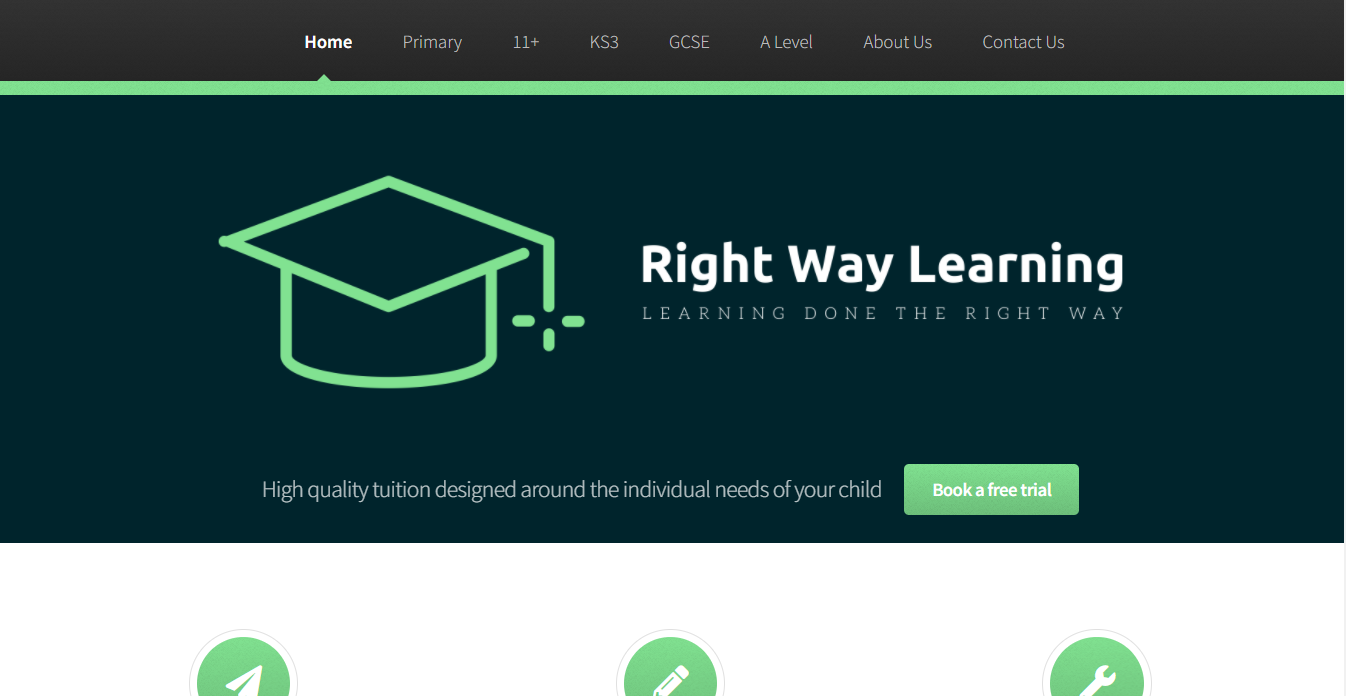
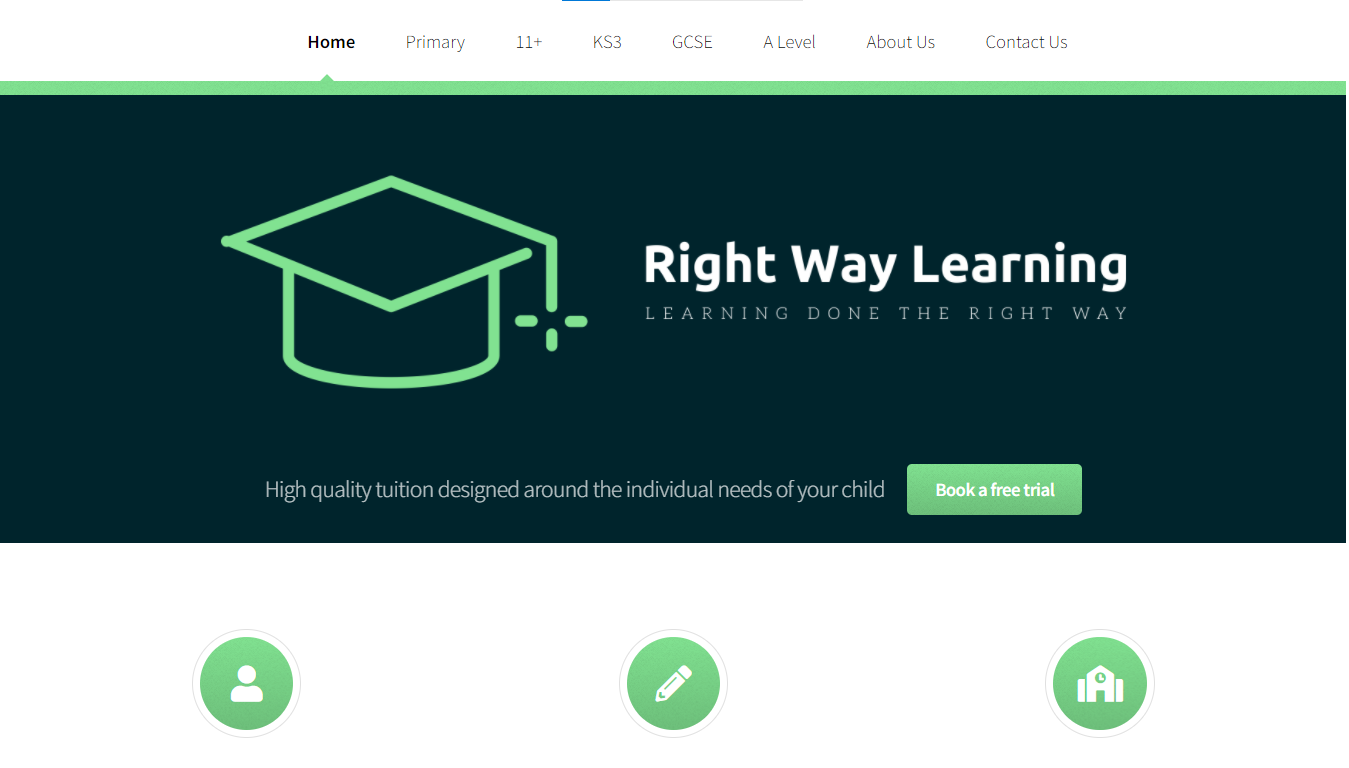
update

diff --git a/assets/css/main.css b/assets/css/main.css
@@ -2049,7 +2049,7 @@ input, select, textarea {
 			-webkit-transition: opacity 0.2s ease-in-out;
 			-ms-transition: opacity 0.2s ease-in-out;
 			transition: opacity 0.2s ease-in-out;
-			background: url("images/overlay.png");
+			/* background: url("images/overlay.png"); */
 			border-radius: 0.35em;
 			content: '';
 			display: block;
@@ -2446,7 +2446,7 @@ input, select, textarea {
 		background-color: transparent;
 		border-radius: 0.35em;
 		border: solid 3px #efefef;
-		color: #787878 !important;
+		color: #3f3f3f !important;
 		cursor: pointer;
 		display: inline-block;
 		font-weight: 400;
@@ -2604,7 +2604,7 @@ input, select, textarea {
 		position: fixed;
 		text-align: right;
 		top: 0;
-		width: 35%;
+		width:30%;
 	}
 
 		#header > * {
@@ -2689,7 +2689,7 @@ input, select, textarea {
 /* Main */
 
 	#main {
-		margin-left: 35%;
+		margin-left: 30%;
 		max-width: 54em;
 		padding: 8em 4em 0em 4em;
 		width: calc(100% - 35%);
@@ -3226,3 +3226,130 @@ input, select, textarea {
 			}
 
 	}
+
+
+	.features {
+		display: -moz-flex;
+		display: -webkit-flex;
+		display: -ms-flex;
+		display: flex;
+		-moz-flex-wrap: wrap;
+		-webkit-flex-wrap: wrap;
+		-ms-flex-wrap: wrap;
+		flex-wrap: wrap;
+		margin: 0 0 2em -3em;
+		width: calc(100% + 3em); }
+		.features article {
+		  -moz-align-items: center;
+		  -webkit-align-items: center;
+		  -ms-align-items: center;
+		  align-items: center;
+		  display: -moz-flex;
+		  display: -webkit-flex;
+		  display: -ms-flex;
+		  display: flex;
+		  margin: 0 0 3em 3em;
+		  position: relative;
+		  width: calc(50% - 3em); }
+		  .features article:nth-child(2n - 1) {
+			margin-right: 1.5em; }
+		  .features article:nth-child(2n) {
+			margin-left: 1.5em; }
+		  .features article:nth-last-child(1), .features article:nth-last-child(2) {
+			margin-bottom: 0; }
+		  .features article .icon {
+			-moz-flex-grow: 0;
+			-webkit-flex-grow: 0;
+			-ms-flex-grow: 0;
+			flex-grow: 0;
+			-moz-flex-shrink: 0;
+			-webkit-flex-shrink: 0;
+			-ms-flex-shrink: 0;
+			flex-shrink: 0;
+			display: block;
+			height: 10em;
+			line-height: 10em;
+			margin: 0 2em 0 0;
+			text-align: center;
+			width: 7em; }
+			.features article .icon:before {
+			  color: #49bf9d;
+			  font-size: 2.75rem;
+			  position: relative;
+			  top: 0.05em; }
+			.features article .icon:after {
+			  -moz-transform: rotate(45deg);
+			  -webkit-transform: rotate(45deg);
+			  -ms-transform: rotate(45deg);
+			  transform: rotate(45deg);
+			  border-radius: 0.25rem;
+			  border: solid 2px rgba(210, 215, 217, 0.75);
+			  content: '';
+			  display: block;
+			  height: 7em;
+			  left: 50%;
+			  margin: -3.5em 0 0 -3.5em;
+			  position: absolute;
+			  top: 50%;
+			  width: 7em; }
+		  .features article .content {
+			-moz-flex-grow: 1;
+			-webkit-flex-grow: 1;
+			-ms-flex-grow: 1;
+			flex-grow: 1;
+			-moz-flex-shrink: 1;
+			-webkit-flex-shrink: 1;
+			-ms-flex-shrink: 1;
+			flex-shrink: 1;
+			width: 100%; }
+			.features article .content > :last-child {
+			  margin-bottom: 0; }
+		@media screen and (max-width: 980px) {
+		  .features {
+			margin: 0 0 2em 0;
+			width: 100%; }
+			.features article {
+			  margin: 0 0 3em 0;
+			  width: 100%; }
+			  .features article:nth-child(2n - 1) {
+				margin-right: 0; }
+			  .features article:nth-child(2n) {
+				margin-left: 0; }
+			  .features article:nth-last-child(1), .features article:nth-last-child(2) {
+				margin-bottom: 3em; }
+			  .features article:last-child {
+				margin-bottom: 0; }
+			  .features article .icon {
+				height: 8em;
+				line-height: 8em;
+				width: 8em; }
+				.features article .icon:before {
+				  font-size: 2.25rem; }
+				.features article .icon:after {
+				  height: 6em;
+				  margin: -3em 0 0 -3em;
+				  width: 6em; } }
+		@media screen and (max-width: 480px) {
+		  .features article {
+			-moz-flex-direction: column;
+			-webkit-flex-direction: column;
+			-ms-flex-direction: column;
+			flex-direction: column;
+			-moz-align-items: -moz-flex-start;
+			-webkit-align-items: -webkit-flex-start;
+			-ms-align-items: -ms-flex-start;
+			align-items: flex-start; }
+			.features article .icon {
+			  height: 6em;
+			  line-height: 6em;
+			  margin: 0 0 1.5em 0;
+			  width: 6em; }
+			  .features article .icon:before {
+				font-size: 1.5rem; }
+			  .features article .icon:after {
+				height: 4em;
+				margin: -2em 0 0 -2em;
+				width: 4em; } }
+		@media screen and (max-width: 480px) {
+		  .features article .icon:before {
+			font-size: 1.25rem; } }

diff --git a/index.html b/index.html
@@ -78,18 +78,40 @@
 						</ul>
 					</section>
 
-					<section id="one">
+					<section>
 						<header class="major">
-							<h2>process </h2>
+							<h2>Services</h2>
 						</header>
-						<p>
-						</p> 
-						<p>
-						
-						</p>
-						<ul class="actions">
-							<li><a href="#three" class="button">Contact me</a></li>
-						</ul>
+						<div class="features">
+							<article>
+								<span class="icon fa-gem"></span>
+								<div class="content">
+									<h3>Web App Development</h3>
+									<p>Front-end and back-end web development and design, from wireframes and UI/UX design, to Full Stack Web Applications</p>
+								</div>
+							</article>
+							<article>
+								<span class="icon solid fa-rocket"></span>
+								<div class="content">
+									<h3>UI/UX Design</h3>
+									<p>Human-centered approach to all design decisions so that products feel custom built for the target audience and is easy-to-navigate</p>
+								</div>
+							</article>
+							<article>
+								<span class="icon solid fa-paper-plane"></span>
+								<div class="content">
+									<h3>Responsive Design</h3>
+									<p>Built to look and perform beautifully on all types of devices, with a page structure that is logical and helps users (and search engines) browse efficiently</p>
+								</div>
+							</article>
+							<article>
+								<span class="icon solid fa-signal"></span>
+								<div class="content">
+									<h3>Business Strategy</h3>
+									<p>Marketing & advertsing strategy that utilizes online and offline based technologies to promote your services and grow your brand</p>
+								</div>
+							</article>
+						</div>
 					</section>
 
 				<!-- Three -->
